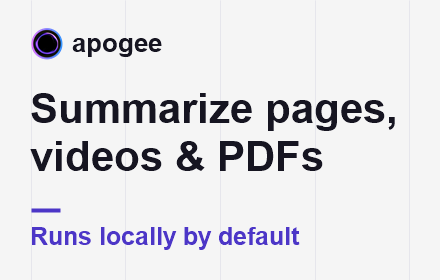
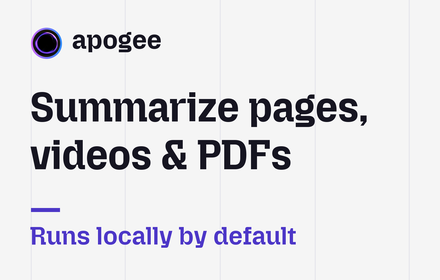
docs: use Mozilla Headline on the Apogee promo tile

diff --git a/docs/STORE-LISTING.md b/docs/STORE-LISTING.md
@@ -232,7 +232,7 @@ Slide 4 and the cover use crops of the popup captures in `.github/assets`. CSS c
 
 ### Promo tiles
 
-The 440x280 small tile uses bold Arial for the headline and local-first message, which are readable at full size and at 220x140.
+The 440x280 small tile uses Mozilla Headline for the headline and local-first message, which are readable at full size and at 220x140.
 
 ![Apogee. Summarize pages, videos & PDFs. Runs locally by default.](../.github/assets/apogee-small-promo-440x280.png)
 
